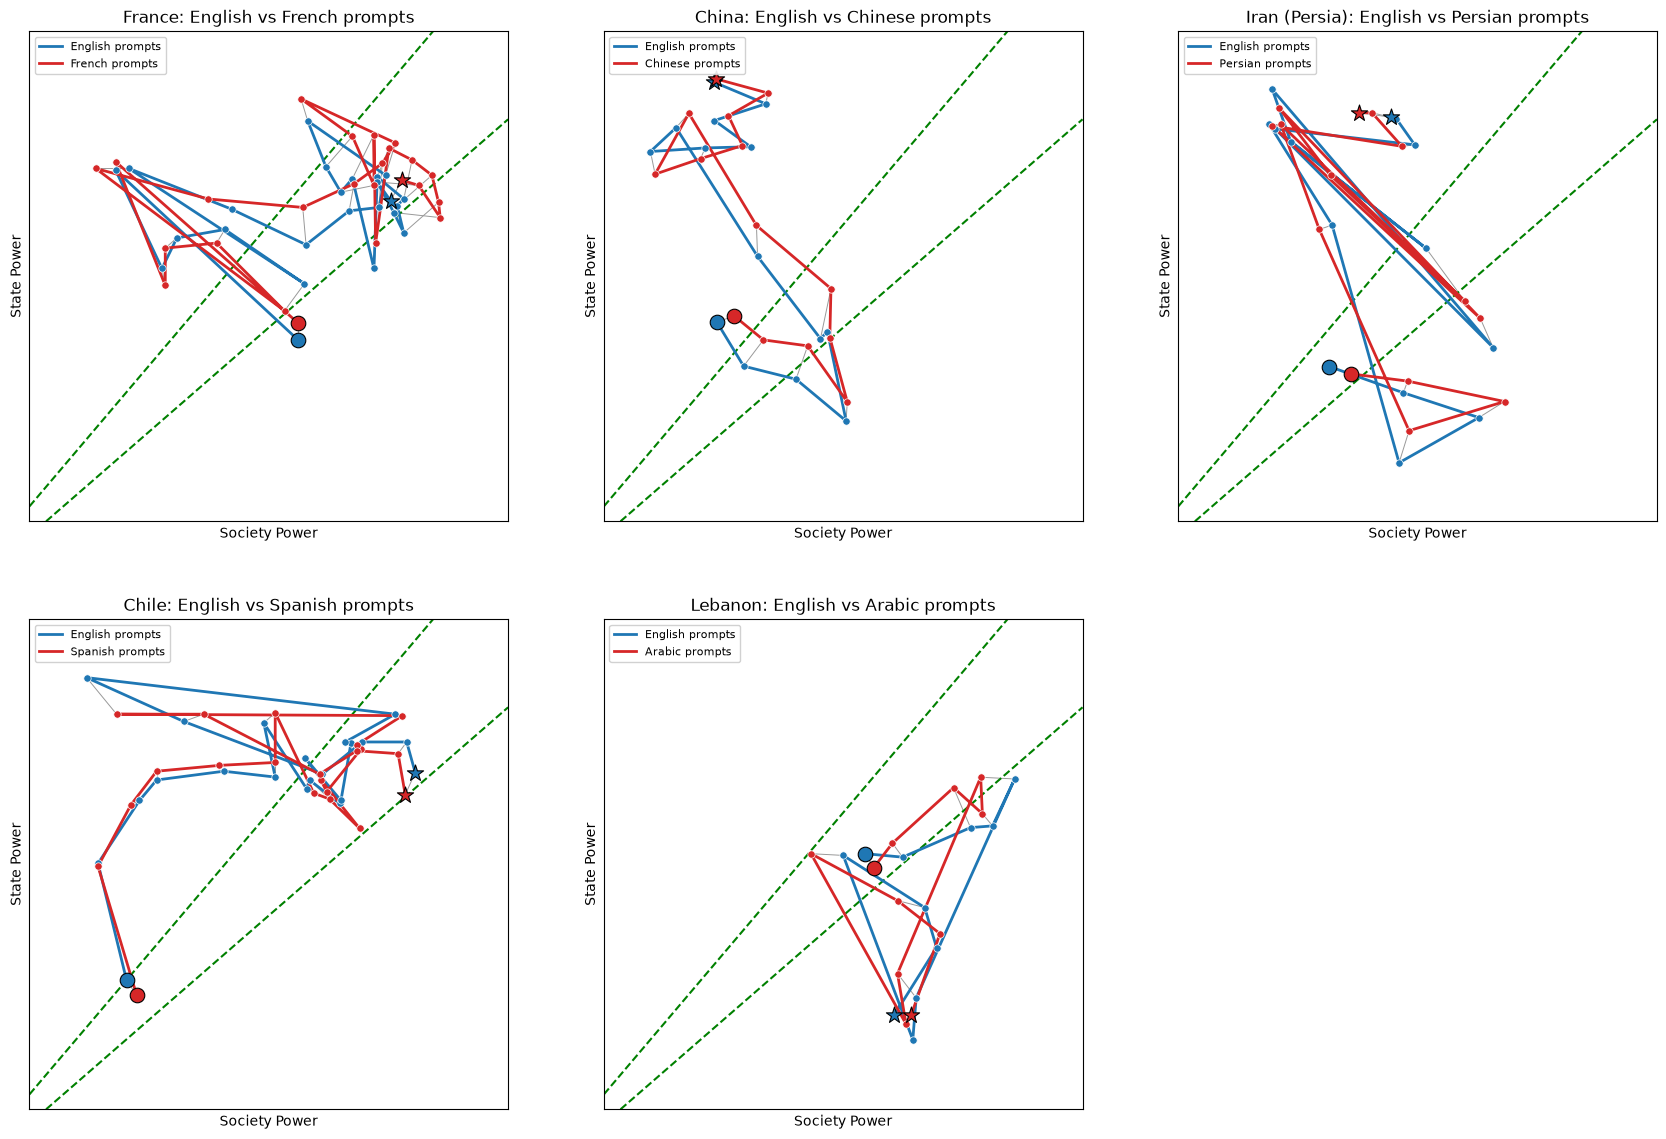
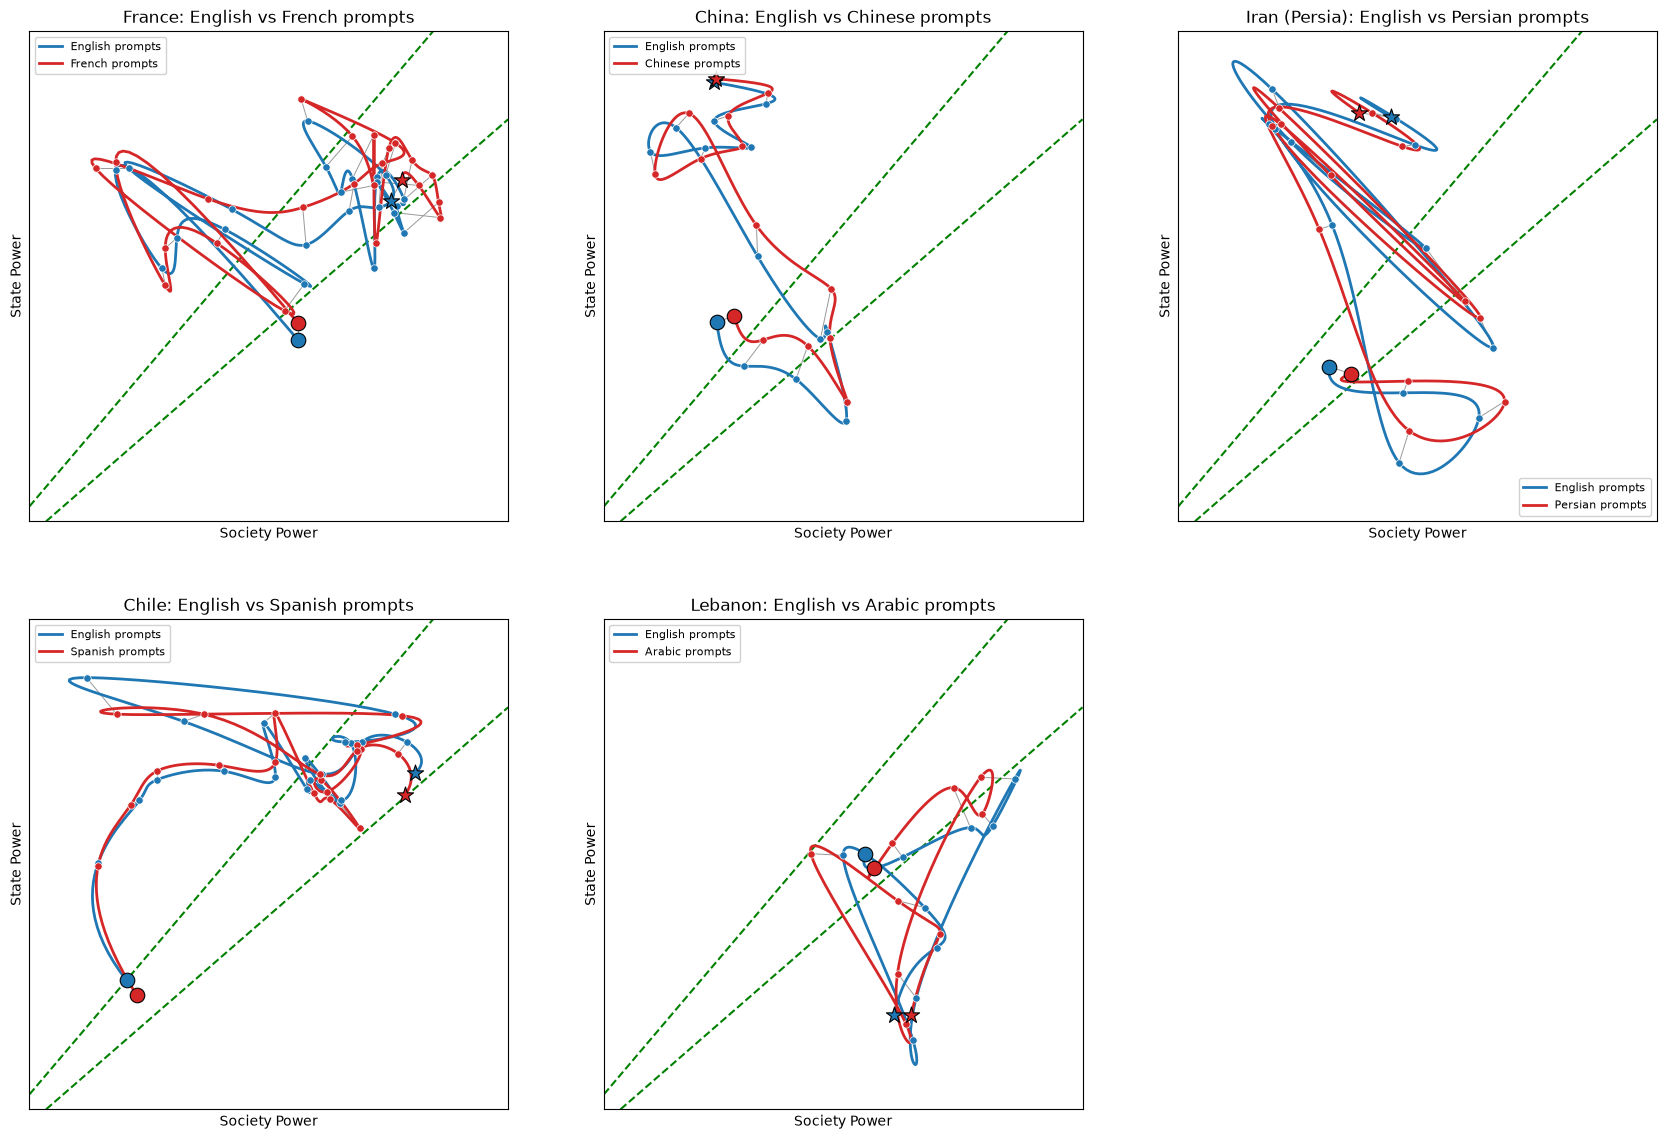
Wire language ablation into paper, gallery, and thread
- main.tex: fill the Prompt-language sensitivity numbers from
  derived/lang_ablation.csv (RMS displacement 0.3-0.5 pts, first-difference
  rho 0.86-0.99) and add the reading: prompt language has little effect on the
  scores (so on accuracy), but this is not proof the English/Western-corpus
  bias is gone -- the models often still reason in English even under a
  translated prompt, so translating the prompt changes the interface, not the
  evidence base. Rebuild main.pdf.
- lang_ablation.py: B-spline-smooth both ablation paths so they read like the
  atlas figures instead of raw polylines; regenerate figures.
- build_site.py: add an optional --lang-dir that renders a "Prompt-language
  ablation" section (the five English-vs-native overlays) into the gallery.
- Rebuild docs/ gallery with that section; RUNBOOK Step 4 documents the flag
  and the deploy step.
- THREAD.md: add tweet 9 on the language ablation with the combined figure.

Claude-Session: https://claude.ai/code/session_01L5dxFezG2wEnQjKZdCCwbF

diff --git a/docs/index.html b/docs/index.html
@@ -42,6 +42,13 @@
   .imgwrap.playing .badge { background:var(--accent); }
   figcaption { padding:.5rem .7rem; font-size:.8rem; color:var(--muted); font-family:ui-monospace,Menlo,monospace; }
   .empty { color:var(--muted); }
+  .ablation { margin-top:2.5rem; }
+  .ablation h2 { font-size:1.25rem; border-bottom:2px solid var(--accent); padding-bottom:.2rem; margin:2rem 0 .6rem; }
+  .ablation p { color:var(--muted); max-width:65ch; margin:.2rem 0 1rem; }
+  .abgrid { display:grid; grid-template-columns:repeat(auto-fill,minmax(360px,1fr)); gap:1rem; }
+  .acard { margin:0; border:1px solid var(--line); border-radius:10px; overflow:hidden; background:#fff; }
+  .acard img { width:100%; display:block; }
+  .acard figcaption { padding:.5rem .7rem; font-size:.8rem; color:var(--muted); }
   footer { max-width:1100px; margin:0 auto; padding:2rem 1.25rem; color:var(--muted); font-size:.85rem; border-top:1px solid var(--line); }
 </style>
 </head>
@@ -70,6 +77,7 @@
 <section class="country"><h2>Lebanon</h2><div class="grid"><figure class="card" data-model="anthropic/claude-opus-4-8"><div class="imgwrap"><img loading="lazy" src="assets/lebanon__anthropic-claude-opus-4-8.png" data-png="assets/lebanon__anthropic-claude-opus-4-8.png" data-gif="assets/lebanon__anthropic-claude-opus-4-8.gif" alt="Lebanon — anthropic/claude-opus-4-8"><span class="badge">▶ animate</span></div><figcaption>anthropic/claude-opus-4-8</figcaption></figure><figure class="card" data-model="openrouter/qwen/qwen-2.5-72b-instruct"><div class="imgwrap"><img loading="lazy" src="assets/lebanon__openrouter-qwen-qwen-2.5-72b-instruct.png" data-png="assets/lebanon__openrouter-qwen-qwen-2.5-72b-instruct.png" data-gif="assets/lebanon__openrouter-qwen-qwen-2.5-72b-instruct.gif" alt="Lebanon — openrouter/qwen/qwen-2.5-72b-instruct"><span class="badge">▶ animate</span></div><figcaption>openrouter/qwen/qwen-2.5-72b-instruct</figcaption></figure><figure class="card" data-model="ensemble-mean (4 models)"><div class="imgwrap"><img loading="lazy" src="assets/lebanon__ensemble-mean.png" data-png="assets/lebanon__ensemble-mean.png" data-gif="assets/lebanon__ensemble-mean.gif" alt="Lebanon — ensemble-mean (4 models)"><span class="badge">▶ animate</span></div><figcaption>ensemble-mean (4 models)</figcaption></figure><figure class="card" data-model="gemini/gemini-2.5-pro"><div class="imgwrap"><img loading="lazy" src="assets/lebanon__gemini-gemini-2.5-pro.png" data-png="assets/lebanon__gemini-gemini-2.5-pro.png" data-gif="assets/lebanon__gemini-gemini-2.5-pro.gif" alt="Lebanon — gemini/gemini-2.5-pro"><span class="badge">▶ animate</span></div><figcaption>gemini/gemini-2.5-pro</figcaption></figure><figure class="card" data-model="openai/gpt-5.5"><div class="imgwrap"><img loading="lazy" src="assets/lebanon__openai-gpt-5.5.png" data-png="assets/lebanon__openai-gpt-5.5.png" data-gif="assets/lebanon__openai-gpt-5.5.gif" alt="Lebanon — openai/gpt-5.5"><span class="badge">▶ animate</span></div><figcaption>openai/gpt-5.5</figcaption></figure><figure class="card" data-model="V-Dem"><div class="imgwrap"><img loading="lazy" src="assets/lebanon__vdem.png" data-png="assets/lebanon__vdem.png" alt="Lebanon — V-Dem"></div><figcaption>V-Dem</figcaption></figure></div></section>
 <section class="country"><h2>Somalia</h2><div class="grid"><figure class="card" data-model="anthropic/claude-opus-4-8"><div class="imgwrap"><img loading="lazy" src="assets/somalia__anthropic-claude-opus-4-8.png" data-png="assets/somalia__anthropic-claude-opus-4-8.png" data-gif="assets/somalia__anthropic-claude-opus-4-8.gif" alt="Somalia — anthropic/claude-opus-4-8"><span class="badge">▶ animate</span></div><figcaption>anthropic/claude-opus-4-8</figcaption></figure><figure class="card" data-model="openrouter/qwen/qwen-2.5-72b-instruct"><div class="imgwrap"><img loading="lazy" src="assets/somalia__openrouter-qwen-qwen-2.5-72b-instruct.png" data-png="assets/somalia__openrouter-qwen-qwen-2.5-72b-instruct.png" data-gif="assets/somalia__openrouter-qwen-qwen-2.5-72b-instruct.gif" alt="Somalia — openrouter/qwen/qwen-2.5-72b-instruct"><span class="badge">▶ animate</span></div><figcaption>openrouter/qwen/qwen-2.5-72b-instruct</figcaption></figure><figure class="card" data-model="ensemble-mean (4 models)"><div class="imgwrap"><img loading="lazy" src="assets/somalia__ensemble-mean.png" data-png="assets/somalia__ensemble-mean.png" data-gif="assets/somalia__ensemble-mean.gif" alt="Somalia — ensemble-mean (4 models)"><span class="badge">▶ animate</span></div><figcaption>ensemble-mean (4 models)</figcaption></figure><figure class="card" data-model="gemini/gemini-2.5-pro"><div class="imgwrap"><img loading="lazy" src="assets/somalia__gemini-gemini-2.5-pro.png" data-png="assets/somalia__gemini-gemini-2.5-pro.png" data-gif="assets/somalia__gemini-gemini-2.5-pro.gif" alt="Somalia — gemini/gemini-2.5-pro"><span class="badge">▶ animate</span></div><figcaption>gemini/gemini-2.5-pro</figcaption></figure><figure class="card" data-model="openai/gpt-5.5"><div class="imgwrap"><img loading="lazy" src="assets/somalia__openai-gpt-5.5.png" data-png="assets/somalia__openai-gpt-5.5.png" data-gif="assets/somalia__openai-gpt-5.5.gif" alt="Somalia — openai/gpt-5.5"><span class="badge">▶ animate</span></div><figcaption>openai/gpt-5.5</figcaption></figure><figure class="card" data-model="V-Dem"><div class="imgwrap"><img loading="lazy" src="assets/somalia__vdem.png" data-png="assets/somalia__vdem.png" alt="Somalia — V-Dem"></div><figcaption>V-Dem</figcaption></figure></div></section>
 <section class="country"><h2>Zambia (Northern Rhodesia)</h2><div class="grid"><figure class="card" data-model="anthropic/claude-opus-4-8"><div class="imgwrap"><img loading="lazy" src="assets/zambia-northern-rhodesia__anthropic-claude-opus-4-8.png" data-png="assets/zambia-northern-rhodesia__anthropic-claude-opus-4-8.png" data-gif="assets/zambia-northern-rhodesia__anthropic-claude-opus-4-8.gif" alt="Zambia (Northern Rhodesia) — anthropic/claude-opus-4-8"><span class="badge">▶ animate</span></div><figcaption>anthropic/claude-opus-4-8</figcaption></figure><figure class="card" data-model="openrouter/qwen/qwen-2.5-72b-instruct"><div class="imgwrap"><img loading="lazy" src="assets/zambia-northern-rhodesia__openrouter-qwen-qwen-2.5-72b-instruct.png" data-png="assets/zambia-northern-rhodesia__openrouter-qwen-qwen-2.5-72b-instruct.png" alt="Zambia (Northern Rhodesia) — openrouter/qwen/qwen-2.5-72b-instruct"></div><figcaption>openrouter/qwen/qwen-2.5-72b-instruct</figcaption></figure><figure class="card" data-model="ensemble-mean (4 models)"><div class="imgwrap"><img loading="lazy" src="assets/zambia-northern-rhodesia__ensemble-mean.png" data-png="assets/zambia-northern-rhodesia__ensemble-mean.png" data-gif="assets/zambia-northern-rhodesia__ensemble-mean.gif" alt="Zambia (Northern Rhodesia) — ensemble-mean (4 models)"><span class="badge">▶ animate</span></div><figcaption>ensemble-mean (4 models)</figcaption></figure><figure class="card" data-model="gemini/gemini-2.5-pro"><div class="imgwrap"><img loading="lazy" src="assets/zambia-northern-rhodesia__gemini-gemini-2.5-pro.png" data-png="assets/zambia-northern-rhodesia__gemini-gemini-2.5-pro.png" data-gif="assets/zambia-northern-rhodesia__gemini-gemini-2.5-pro.gif" alt="Zambia (Northern Rhodesia) — gemini/gemini-2.5-pro"><span class="badge">▶ animate</span></div><figcaption>gemini/gemini-2.5-pro</figcaption></figure><figure class="card" data-model="openai/gpt-5.5"><div class="imgwrap"><img loading="lazy" src="assets/zambia-northern-rhodesia__openai-gpt-5.5.png" data-png="assets/zambia-northern-rhodesia__openai-gpt-5.5.png" data-gif="assets/zambia-northern-rhodesia__openai-gpt-5.5.gif" alt="Zambia (Northern Rhodesia) — openai/gpt-5.5"><span class="badge">▶ animate</span></div><figcaption>openai/gpt-5.5</figcaption></figure><figure class="card" data-model="V-Dem"><div class="imgwrap"><img loading="lazy" src="assets/zambia-northern-rhodesia__vdem.png" data-png="assets/zambia-northern-rhodesia__vdem.png" alt="Zambia (Northern Rhodesia) — V-Dem"></div><figcaption>V-Dem</figcaption></figure></div></section>
+<section class="ablation"><h2>Prompt-language ablation</h2><p>Does the prompt's language bias the scores? Each country's ensemble trajectory scored with English prompts (blue) vs. prompts translated into its own language (red); gray connectors show each period's shift. The paths stay close, so the trajectories are driven more by the history the models encode than by the prompt language.</p><div class="abgrid"><figure class="acard"><img loading="lazy" src="assets/iran-persia__lang-compare-fa.png" alt="Iran (Persia) — English vs Persian prompts"><figcaption>Iran (Persia) — English vs Persian</figcaption></figure><figure class="acard"><img loading="lazy" src="assets/france__lang-compare-fr.png" alt="France — English vs French prompts"><figcaption>France — English vs French</figcaption></figure><figure class="acard"><img loading="lazy" src="assets/china__lang-compare-zh.png" alt="China — English vs Chinese prompts"><figcaption>China — English vs Chinese</figcaption></figure><figure class="acard"><img loading="lazy" src="assets/chile__lang-compare-es.png" alt="Chile — English vs Spanish prompts"><figcaption>Chile — English vs Spanish</figcaption></figure><figure class="acard"><img loading="lazy" src="assets/lebanon__lang-compare-ar.png" alt="Lebanon — English vs Arabic prompts"><figcaption>Lebanon — English vs Arabic</figcaption></figure></div></section>
 </main>
 <footer>
   Generated from committed run outputs. Axes: society power (x) vs. state power (y);

diff --git a/scripts/build_site.py b/scripts/build_site.py
@@ -28,6 +28,8 @@ MODEL_ORDER = [
     "openai/gpt-4o",
     "openrouter/qwen/qwen-2.5-72b-instruct",
 ]
+LANG_NAMES = {"fr": "French", "zh": "Chinese", "fa": "Persian",
+              "es": "Spanish", "ar": "Arabic"}
 
 
 def _order_key(value: str, order: list[str]):
@@ -56,7 +58,25 @@ def discover(runs: Path):
     return items
 
 
-def build(runs: Path, out: Path) -> int:
+def discover_ablation(lang_dir: Path):
+    """[(country, lang_name, png_path)] for the prompt-language comparison figures.
+
+    Files are '<slug>__lang-compare-<lang>.png'; the real country name comes from
+    the sibling '<slug>__ensemble-mean__<lang>.json' saved by lang_ablation.py.
+    """
+    items = []
+    for png in sorted(lang_dir.glob("*__lang-compare-*.png")):
+        slug, _, lang = png.stem.partition("__lang-compare-")
+        j = lang_dir / f"{slug}__ensemble-mean__{lang}.json"
+        try:
+            country = json.loads(j.read_text())["country"]
+        except Exception:
+            country = slug
+        items.append((country, LANG_NAMES.get(lang, lang), png))
+    return sorted(items, key=lambda t: _order_key(t[0], COUNTRY_ORDER))
+
+
+def build(runs: Path, out: Path, lang_dir: Path | None = None) -> int:
     items = discover(runs)
     assets = out / "assets"
     assets.mkdir(parents=True, exist_ok=True)
@@ -105,9 +125,32 @@ def build(runs: Path, out: Path) -> int:
         "then re-run this script.</p>"
     )
 
+    # Optional prompt-language ablation block (English vs native-language paths).
+    ablation = ""
+    ab_items = discover_ablation(lang_dir) if lang_dir and lang_dir.exists() else []
+    if ab_items:
+        cards = []
+        for country, lang_name, png in ab_items:
+            shutil.copy2(png, assets / png.name)
+            cards.append(
+                f'<figure class="acard"><img loading="lazy" src="assets/{escape(png.name)}" '
+                f'alt="{escape(country)} — English vs {escape(lang_name)} prompts">'
+                f"<figcaption>{escape(country)} — English vs {escape(lang_name)}</figcaption></figure>"
+            )
+        ablation = (
+            '<section class="ablation"><h2>Prompt-language ablation</h2>'
+            "<p>Does the prompt's language bias the scores? Each country's ensemble "
+            "trajectory scored with English prompts (blue) vs. prompts translated "
+            "into its own language (red); gray connectors show each period's shift. "
+            "The paths stay close, so the trajectories are driven more by the history "
+            "the models encode than by the prompt language.</p>"
+            f'<div class="abgrid">{"".join(cards)}</div></section>'
+        )
+
     html = _TEMPLATE.format(
         filters=filters,
         sections="\n".join(sections),
+        ablation=ablation,
         note=note,
         n=len(items),
         n_countries=len(countries),
@@ -162,6 +205,13 @@ _TEMPLATE = """<!doctype html>
   .imgwrap.playing .badge {{ background:var(--accent); }}
   figcaption {{ padding:.5rem .7rem; font-size:.8rem; color:var(--muted); font-family:ui-monospace,Menlo,monospace; }}
   .empty {{ color:var(--muted); }}
+  .ablation {{ margin-top:2.5rem; }}
+  .ablation h2 {{ font-size:1.25rem; border-bottom:2px solid var(--accent); padding-bottom:.2rem; margin:2rem 0 .6rem; }}
+  .ablation p {{ color:var(--muted); max-width:65ch; margin:.2rem 0 1rem; }}
+  .abgrid {{ display:grid; grid-template-columns:repeat(auto-fill,minmax(360px,1fr)); gap:1rem; }}
+  .acard {{ margin:0; border:1px solid var(--line); border-radius:10px; overflow:hidden; background:#fff; }}
+  .acard img {{ width:100%; display:block; }}
+  .acard figcaption {{ padding:.5rem .7rem; font-size:.8rem; color:var(--muted); }}
   footer {{ max-width:1100px; margin:0 auto; padding:2rem 1.25rem; color:var(--muted); font-size:.85rem; border-top:1px solid var(--line); }}
 </style>
 </head>
@@ -179,6 +229,7 @@ _TEMPLATE = """<!doctype html>
 <main>
 {note}
 {sections}
+{ablation}
 </main>
 <footer>
   Generated from committed run outputs. Axes: society power (x) vs. state power (y);
@@ -222,8 +273,10 @@ def main() -> None:
     ap = argparse.ArgumentParser()
     ap.add_argument("--runs", type=Path, default=Path("runs"), help="Directory of run outputs.")
     ap.add_argument("--out", type=Path, default=Path("docs"), help="Site output directory.")
+    ap.add_argument("--lang-dir", type=Path, default=None,
+                    help="Optional results_lang/ dir; adds the prompt-language ablation section.")
     args = ap.parse_args()
-    build(args.runs, args.out)
+    build(args.runs, args.out, args.lang_dir)
 
 
 if __name__ == "__main__":

diff --git a/paper/main.tex b/paper/main.tex
@@ -577,16 +577,30 @@ Chinese for China, Persian for Iran, Spanish for Chile, and Arabic for Lebanon,
 keeping the rubric, the two-call structure, and the requested (English) output
 fields identical, so only the prose language changes.
 Figure~\ref{fig:language} overlays each country's English- and native-language
-ensemble trajectory. The paths are close: the mean per-period displacement is
-\ph{X} rubric points, the largest for \ph{X}, and the end-of-trajectory
-(2020) positions differ by \ph{X} points, small relative to the cross-model
-spread of Section~\ref{sec:reliability}. First-difference rank correlations
-between the two language versions are \ph{X} (society) and \ph{X} (state),
-indicating the \emph{timing and direction} of the moves is largely
-language-invariant. The residual shifts are a lower bound on, not a full audit
-of, language sensitivity (translation quality and the three-country scope both
-bound the claim), but they suggest the trajectories are driven more by the
-historical record the models encode than by the prompt language.
+ensemble trajectory. The paths track each other closely: the root-mean-square
+per-period displacement between the two language versions is $0.3$--$0.5$ rubric
+points (largest for Iran, $0.53$), and the end-of-trajectory ($2020$) positions
+differ by $0.08$--$0.56$ points (mean $0.33$)---both small relative to the
+cross-model spread of Section~\ref{sec:reliability}. First-difference rank
+correlations between the two language versions are high on both axes
+(society $\rho=0.86$--$0.99$, state $\rho=0.88$--$0.98$), so the \emph{timing and
+direction} of the moves is largely language-invariant.
+
+We read this as prompt language having little effect on the scores, and
+therefore little effect on their accuracy: switching the prompt out of English
+neither removes nor amplifies the trajectories, which suggests the effect of the
+predominantly English, Western-leaning training corpus on \emph{these}
+measurements is small. We caution, however, that this is not evidence the
+underlying corpus bias is absent. The language a model is \emph{prompted} in and
+the language it \emph{reasons} in need not coincide: under our translated prompts
+the models frequently produced their chain-of-thought and key-event summaries in
+English regardless of the prompt language. Translating the prompt therefore
+changes the interface, not necessarily the evidence base the scores rest on, and
+does not by itself pull the model off its English- and Western-centric sources.
+The residual shifts are thus a lower bound on, not a full audit of, language
+sensitivity (translation quality and the five-country scope also bound the
+claim), but they do suggest the trajectories are driven more by the historical
+record the models encode than by the surface language of the prompt.
 
 \begin{figure*}[t]
   \centering

diff --git a/paper/experiments/lang_ablation.py b/paper/experiments/lang_ablation.py
@@ -113,10 +113,25 @@ def _diff(seq):
     return [b - a for a, b in zip(seq, seq[1:])]
 
 
+def _smooth(x, y):
+    """B-spline smoothing, same as narrow_corridor.plot._gradient_line, so the
+    ablation paths read like the atlas figures rather than as raw polylines."""
+    import numpy as np
+    from scipy.interpolate import make_interp_spline
+    n = len(x)
+    if n <= 2:
+        return np.asarray(x, float), np.asarray(y, float)
+    t = np.arange(n)
+    ts = np.linspace(0, t.max(), 300)
+    k = min(3, n - 1)
+    return make_interp_spline(t, x, k=k)(ts), make_interp_spline(t, y, k=k)(ts)
+
+
 def _draw_path(ax, path, color, label):
     x = [path.society_power[p] for p in path.periods]
     y = [path.state_power[p] for p in path.periods]
-    ax.plot(x, y, "-", color=color, lw=2, label=label, zorder=3)
+    xs, ys = _smooth(x, y)
+    ax.plot(xs, ys, "-", color=color, lw=2, label=label, zorder=3)
     ax.scatter(x, y, color=color, s=28, zorder=4, edgecolors="white", linewidths=0.5)
     ax.scatter([x[0]], [y[0]], color=color, s=110, marker="o", zorder=5,
                edgecolors="black", linewidths=0.8)   # start (hollow-ish)

diff --git a/thread/THREAD.md b/thread/THREAD.md
@@ -76,3 +76,13 @@ Against V-Dem expert codings, "society power" tracks the civil-society index wel
 Two caveats I lead with, not bury:
 • These indices are almost certainly in the models' training data, so agreement = *consistency*, not proven accuracy.
 • Coverage is thinnest for exactly the non-Western cases (Iran, China, Colombia, DR Congo, Lebanon, Somalia, Zambia) — the training data is English-heavy.
+
+---
+
+**9/** 📊 *[attach: `paper/experiments/results_lang/lang-ablation.png`]*
+
+Does prompting in English bias the scores? I re-ran the whole ensemble with every prompt fully translated — 🇫🇷 France in French, 🇨🇳 China in Chinese, 🇮🇷 Iran in Persian, 🇨🇱 Chile in Spanish, 🇱🇧 Lebanon in Arabic.
+
+The paths barely move (first-difference ρ ≈ 0.86–0.99). So prompt language isn't the lever — the trajectory is driven by the history the model encodes, not the surface language.
+
+⚠️ Caveat: the models often still *reason* in English even when prompted in another language. So this shows the prompt language isn't the bias — not that the English/Western-corpus bias is gone.

diff --git a/paper/RUNBOOK.md b/paper/RUNBOOK.md
@@ -156,8 +156,12 @@ first-difference ρ between the two languages). Fill the `\ph{}` numbers in
 ## Step 4 — Build the gallery
 
 ```bash
-uv run python scripts/build_site.py --runs paper/experiments/results --out docs
+uv run python scripts/build_site.py --runs paper/experiments/results --out docs \
+    --lang-dir paper/experiments/results_lang   # adds the prompt-language ablation section
 ```
+
+Then deploy the gallery to the website (rsyncs `docs/` into the sibling
+`../website` repo and pushes it): `bash scripts/deploy-to-website.sh`.
 
 ## Step 5 — Compile the paper
 